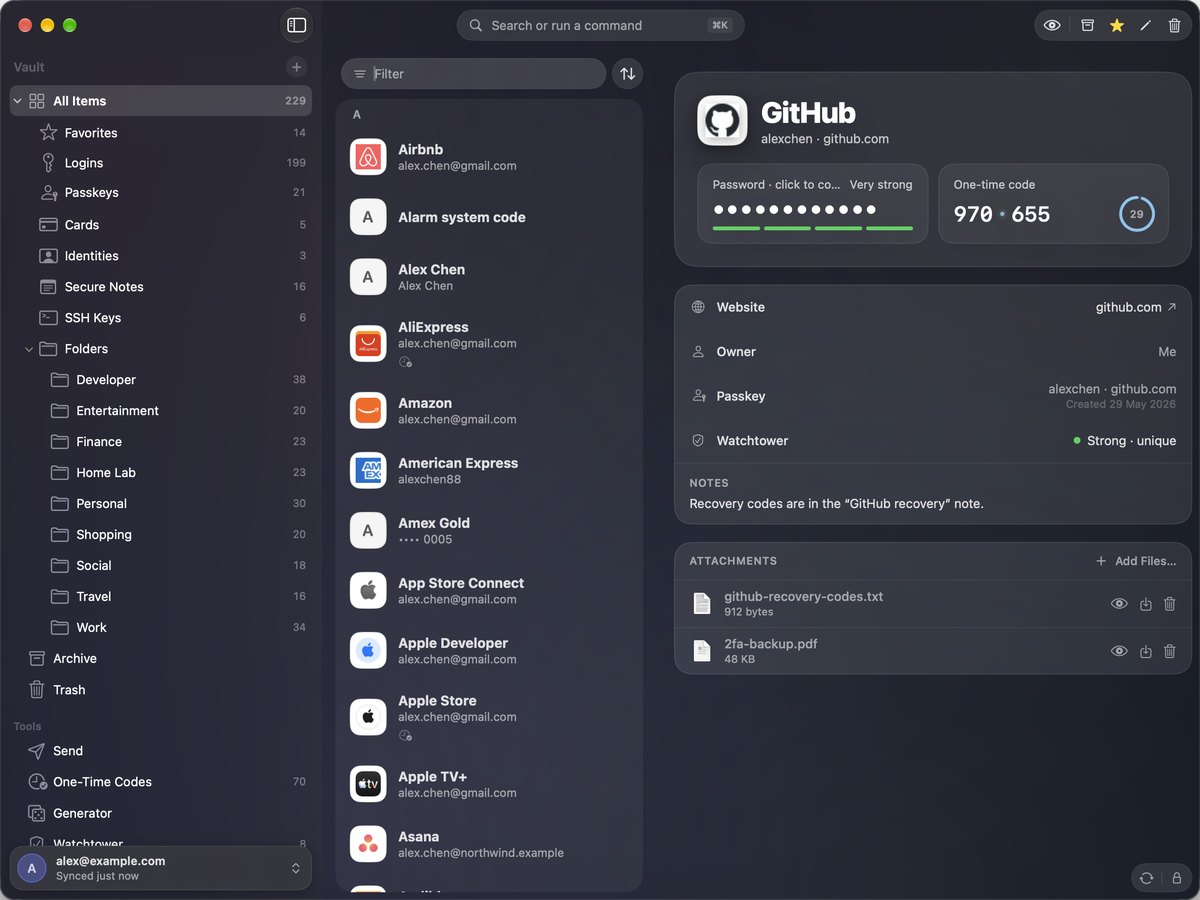
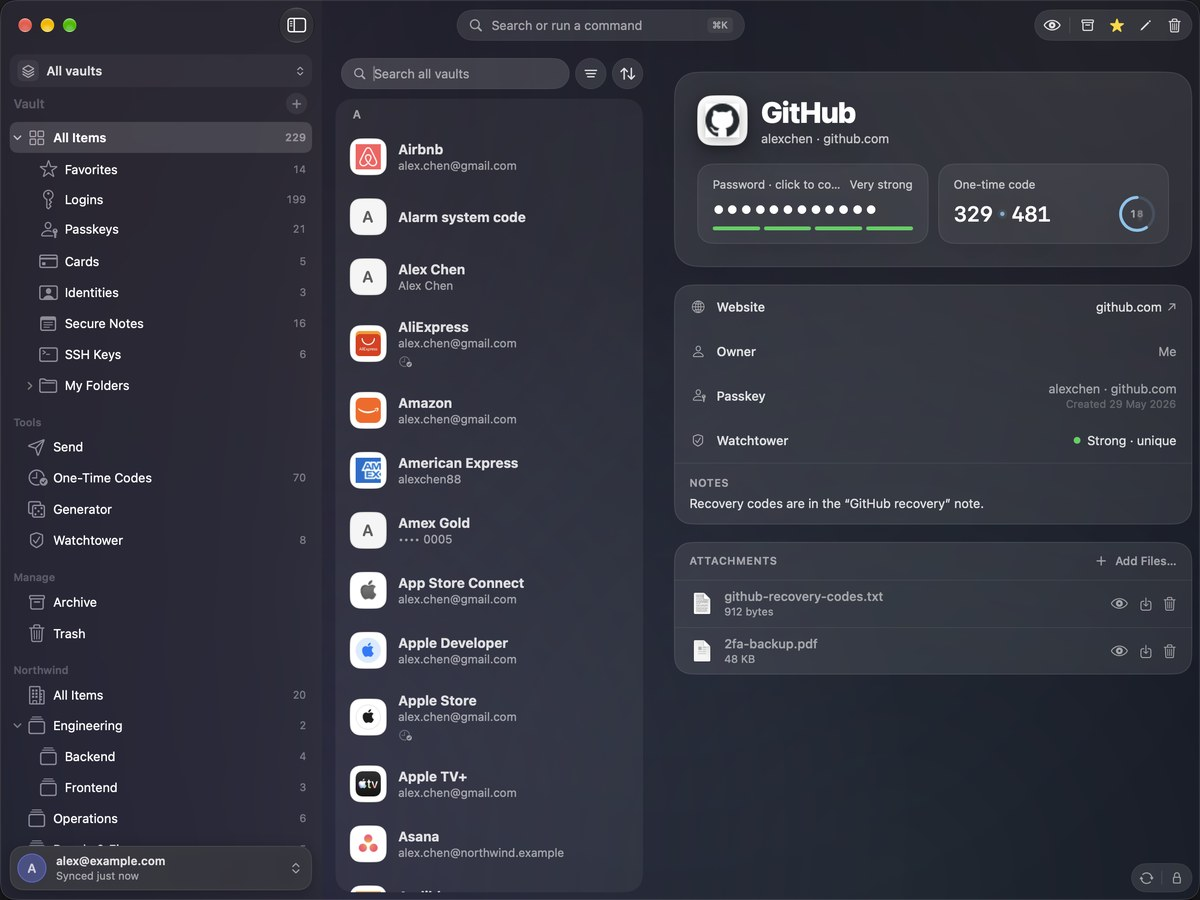
Demo vault with a shared vault; README screenshots from the real menu bar panel
- The demo vault (Alex Chen) now has Northwind, a shared vault with nested shared folders
  (Engineering › Backend / Frontend, Operations, People & Finance) holding the work logins.
- --shoot adds a search shot (My vault + Northwind, a typed search, filter chips) and captures the
  real menu bar panel by clicking Triwarden's own menu bar icon (the hand-built copy is a fallback).
- Demo runs no longer read or write the saved vault and search filters.
- README: fresh screenshots, and the search shot under the hero image.

diff --git a/App/Sources/DemoVault.swift b/App/Sources/DemoVault.swift
@@ -14,8 +14,39 @@ enum DemoVault {
         Grouping(id: "f-home", name: "Home Lab"),
     ]
 
-    /// The curated demo items, then the generated rest.
-    static var items: [VaultItem] { Snapshot.demoItems + generated }
+    /// Northwind, the shared vault at work, with shared folders that nest (Engineering › Backend).
+    static let organizations: [Grouping] = [
+        Grouping(id: "org-northwind", name: "Northwind", children: [
+            Grouping(id: "col-eng", name: "Engineering"), Grouping(id: "col-eng-backend", name: "Engineering/Backend"),
+            Grouping(id: "col-eng-frontend", name: "Engineering/Frontend"), Grouping(id: "col-ops", name: "Operations"),
+            Grouping(id: "col-people", name: "People & Finance"),
+        ]),
+    ]
+
+    /// Work logins that live in Northwind's vault rather than Alex's own, and the shared folder each is in.
+    private static let shared: [String: String] = [
+        "Datadog": "col-eng-backend", "PagerDuty": "col-eng-backend", "Grafana": "col-eng-backend",
+        "northwind-deploy": "col-eng-backend",
+        "Figma": "col-eng-frontend", "Linear": "col-eng-frontend", "Lucidchart": "col-eng-frontend",
+        "Jira": "col-eng", "Confluence": "col-eng",
+        "Northwind Google Workspace": "col-ops", "Slack — Northwind": "col-ops", "Okta": "col-ops",
+        "VPN — Northwind": "col-ops", "Intranet": "col-ops", "Zoom": "col-ops",
+        "Workday": "col-people", "BambooHR": "col-people", "Expensify": "col-people", "DocuSign": "col-people",
+        "Northwind Corporate": "col-people",
+    ]
+
+    /// The curated demo items, then the generated rest; Northwind's out of Alex's folders and into its shared folders.
+    static var items: [VaultItem] {
+        (Snapshot.demoItems + generated).map { item in
+            guard let collection = shared[item.name] else { return item }
+            var item = item
+            item.organizationId = "org-northwind"
+            item.collectionIds = [collection]
+            item.folderId = nil
+            item.folderName = nil
+            return item
+        }
+    }
 
     private static let work = "alex.chen@northwind.example"
     private static let mail = "alex.chen@gmail.com"
@@ -268,6 +299,7 @@ private struct SeededRandom {
 #if DEBUG
 import AppKit
 import SwiftUI
+import VaultwardenAPI
 
 /// Debug-only: `Triwarden --demo-full --shoot [-appearance dark]` steps through the screens worth showing, captures
 /// its own windows (shadow included, as the window server draws them) into the app's temporary folder (it's
@@ -279,6 +311,9 @@ enum DemoShots {
         guard args.contains("--shoot") else { return }
         let dir = FileManager.default.temporaryDirectory.appending(path: "demo-shots", directoryHint: .isDirectory)
         try? FileManager.default.createDirectory(at: dir, withIntermediateDirectories: true)
+        for old in (try? FileManager.default.contentsOfDirectory(at: dir, includingPropertiesForKeys: nil)) ?? [] {
+            try? FileManager.default.removeItem(at: old)
+        }
         let scheme = UserDefaults.standard.string(forKey: Pref.appearance) == "dark" ? "dark" : "light"
         Task { @MainActor in
             try? await Task.sleep(for: .seconds(3))
@@ -296,11 +331,39 @@ enum DemoShots {
             try? await Task.sleep(for: .seconds(2.5))
             await capture([window], dir.appending(path: "vault-\(scheme).png"))
 
-            // The menu bar panel: its content in a panel like the one MenuBarExtra shows (SwiftUI's own panel only
-            // opens on a real click).
+            // Search across several vaults with filters on: My vault + Northwind, logins with a one-time code, the
+            // shared folders open in the sidebar (My Folders folded, so Northwind is in view).
+            let foldersOpen = UserDefaults.standard.object(forKey: "sidebarFoldersExpanded")
+            UserDefaults.standard.set(false, forKey: "sidebarFoldersExpanded")
+            model.vaultFilter = .several([AppModel.VaultFilter.personalKey, "org-northwind"])
+            model.searchFilters = SearchFilters(type: .login)
+            model.requestedFilter = "north" // one search over both: Alex's own work logins and Northwind's
+            try? await Task.sleep(for: .seconds(0.5))
+            model.selectedID = model.vaultItems.first { $0.organizationId != nil && $0.hasTOTP && $0.kind == .login }?.id
+            try? await Task.sleep(for: .seconds(2))
+            await capture([window], dir.appending(path: "search-\(scheme).png"))
+            model.vaultFilter = .all
+            model.searchFilters = SearchFilters()
+            model.requestedFilter = ""
+            UserDefaults.standard.set(foldersOpen, forKey: "sidebarFoldersExpanded")
+            model.selectedID = "2"
+
             // As if opened over github.com in Safari (not whatever app is really in front).
             model.foreground = ForegroundContext(app: "Safari", bundleID: "com.apple.Safari", pid: 0, host: "github.com")
             model.foregroundPinned = true
+
+            // The menu bar panel itself: a click on Triwarden's menu bar icon opens it, as a person would.
+            if let button = NSApp.windows.lazy.compactMap({ $0.contentView.flatMap(Self.statusButton) }).first {
+                let before = Set(NSApp.windows.filter(\.isVisible).map(\.windowNumber))
+                button.performClick(nil)
+                try? await Task.sleep(for: .seconds(2.5))
+                if let panel = NSApp.windows.first(where: { $0.isVisible && !before.contains($0.windowNumber) }) {
+                    await capture([panel], dir.appending(path: "menubar-\(scheme).png"), activate: false)
+                    panel.orderOut(nil)
+                }
+                NSApp.activate(ignoringOtherApps: true)
+                window.makeKeyAndOrderFront(nil)
+            }
             let appearance = NSAppearance(named: scheme == "dark" ? .darkAqua : .aqua)!
             let host = NSHostingView(rootView: MenuBarContent().environment(model).tint(.brand))
             host.appearance = appearance
@@ -326,7 +389,10 @@ enum DemoShots {
             }
             panel.orderFrontRegardless()
             try? await Task.sleep(for: .seconds(3.5))
-            await capture([panel], dir.appending(path: "menubar-\(scheme).png"))
+            // Kept as a fallback, for when the menu bar icon is turned off.
+            if !FileManager.default.fileExists(atPath: dir.appending(path: "menubar-\(scheme).png").path) {
+                await capture([panel], dir.appending(path: "menubar-\(scheme).png"))
+            }
             panel.orderOut(nil)
             NSApp.activate(ignoringOtherApps: true)
             window.makeKeyAndOrderFront(nil)
@@ -395,8 +461,14 @@ enum DemoShots {
 
     /// Composites the given windows (front first) as the window server shows them, with the app active so the traffic
     /// lights and selections show in colour.
-    private static func capture(_ windows: [NSWindow], _ url: URL) async {
-        NSApp.activate(ignoringOtherApps: true)
+    /// Triwarden's own menu bar button, if its icon is in the menu bar.
+    private static func statusButton(_ view: NSView) -> NSStatusBarButton? {
+        if let button = view as? NSStatusBarButton { return button }
+        return view.subviews.lazy.compactMap(statusButton).first
+    }
+
+    private static func capture(_ windows: [NSWindow], _ url: URL, activate: Bool = true) async {
+        if activate { NSApp.activate(ignoringOtherApps: true) }
         // A lone window becomes key; with several (the palette over the vault) focus stays put, or the palette closes.
         if windows.count == 1, windows[0].canBecomeMain { windows[0].makeKeyAndOrderFront(nil) }
         try? await Task.sleep(for: .seconds(0.6))

diff --git a/App/Sources/AppModel.swift b/App/Sources/AppModel.swift
@@ -133,16 +133,17 @@ final class AppModel {
         }
         return names.count <= 2 ? names.joined(separator: " + ") : String(localized: "\(names.count) vaults")
     }
-    var vaultFilter = VaultFilter(raw: UserDefaults.standard.string(forKey: "vaultFilter")) {
+    var vaultFilter = AppModel.keepsSearchFilters ? VaultFilter(raw: UserDefaults.standard.string(forKey: "vaultFilter")) : .all {
         didSet { if Self.keepsSearchFilters { UserDefaults.standard.set(vaultFilter.raw, forKey: "vaultFilter") } }
     }
 
     /// The vault list's search filters (type, folder, favorites, codes, passkeys, Watchtower issues), kept between
-    /// launches. Snapshot runs start clear and leave the saved ones alone.
+    /// launches. Renders and demo runs start clear and leave the saved ones alone.
     var searchFilters = AppModel.keepsSearchFilters ? SearchFilters.load() : SearchFilters() {
         didSet { if Self.keepsSearchFilters { searchFilters.save() } }
     }
-    private static let keepsSearchFilters = !CommandLine.arguments.contains("--snapshot")
+    /// Renders and demo runs start clear and leave the saved vault and filters alone.
+    private static let keepsSearchFilters = !CommandLine.arguments.contains { $0 == "--snapshot" || $0.hasPrefix("--demo") }
     /// Set by ⌘F: the vault list's search field takes focus (and clears it).
     var wantsSearchFocus = false
 

diff --git a/App/Sources/TriwardenApp.swift b/App/Sources/TriwardenApp.swift
@@ -31,6 +31,7 @@ struct TriwardenApp: App {
             demo.items = full ? DemoVault.items : Snapshot.demoItems
             if full {
                 demo.folders = DemoVault.folders
+                demo.organizations = DemoVault.organizations
                 IconStore.shared.fallbackEnvironment = .bitwardenUS // real site icons, from Bitwarden's public service
             }
             // An in-memory account only: demo/UI-test runs never show or touch the real saved accounts.

diff --git a/README.md b/README.md
@@ -72,6 +72,11 @@
 - Import from Bitwarden, 1Password, LastPass, KeePass, Proton Pass, Dashlane, Apple Passwords, Chrome and Firefox;
   export in Bitwarden's formats, including password-protected JSON.
 
+<p align="center">
+  <img src="docs/images/search.jpg" width="820" alt="One search over My vault and the Northwind shared vault at once, with filter chips, and Northwind's shared folders nested in the sidebar">
+  <br><sub>One search over several vaults at once, filters as chips, shared folders nested like your own</sub>
+</p>
+
 <table>
   <tr>
     <td><img src="docs/images/palette.jpg" alt="Command palette"></td>
